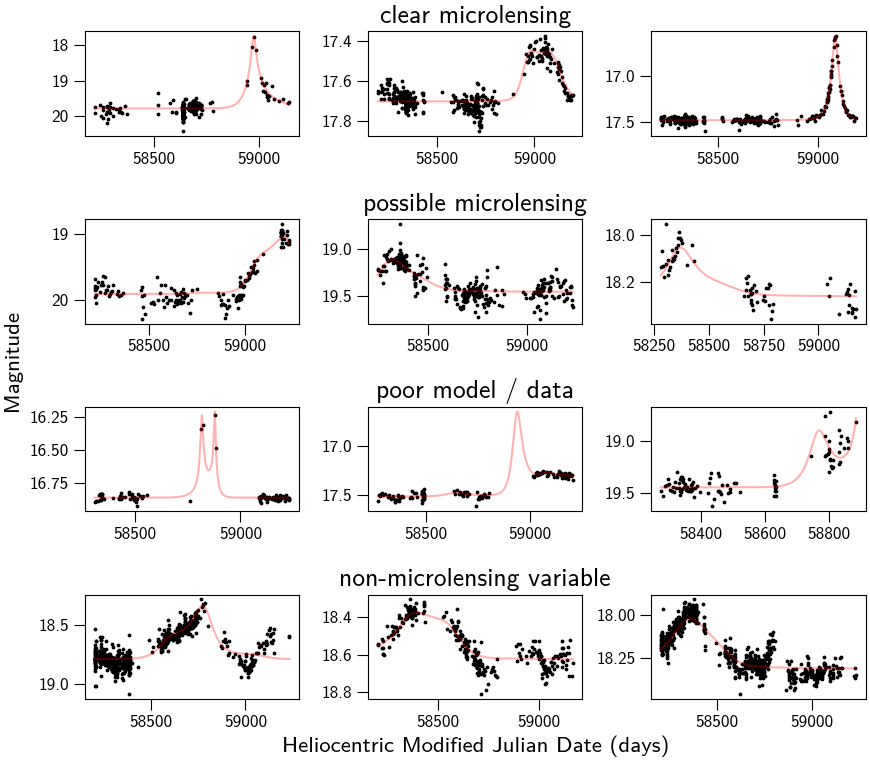
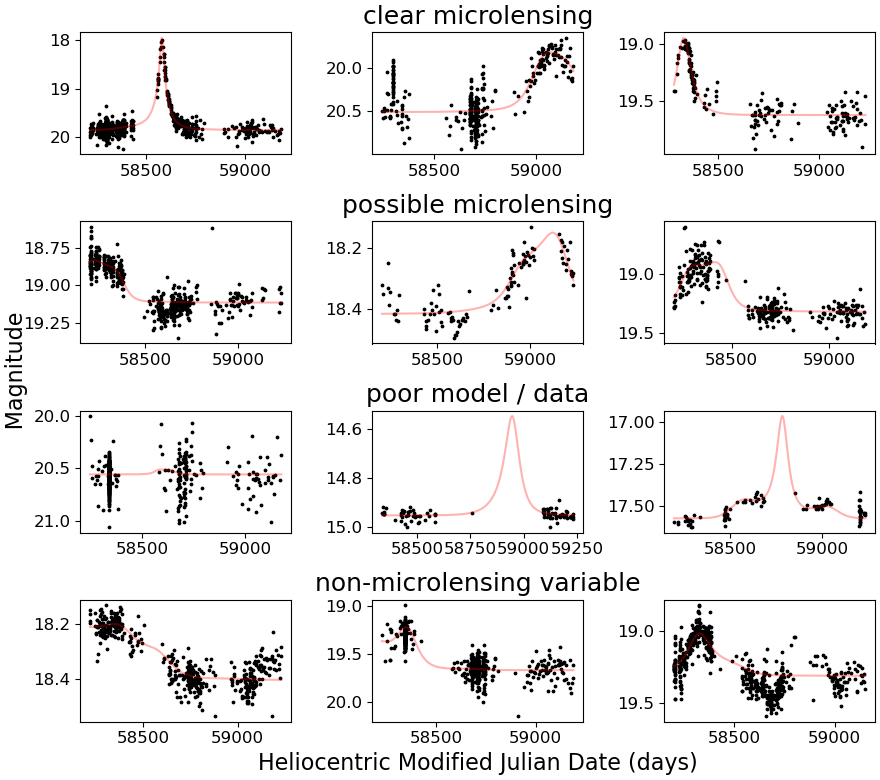
updated zort in dockerfile

Changed region(s): [[0.031, 0.0, 1.0, 0.9961], [0.0, 0.2717, 0.3414, 0.7244], [0.0621, 0.0302, 0.3414, 0.2415]]

diff --git a/bin/paper_figures/plot_level5_cands.py b/bin/paper_figures/plot_level5_cands.py
@@ -398,6 +398,12 @@ def _plot_lightcurve_axis(cand, ax, color_marker='k', color_model='r', remove_ax
 
 
 def plot_level6_lightcurve_examples():
+    """
+    Plots 6 random light curves in the
+    plane and 6 in the halo. They were originally picked randomly
+    then they were hard coded with hard coded time ranges for 
+    optimal display.
+    """
     cands = CandidateLevel4.query.\
         filter(CandidateLevel4.level5 == True,
                CandidateLevel4.category == 'clear_microlensing').\
@@ -409,23 +415,25 @@ def plot_level6_lightcurve_examples():
     cands_halo = [c for c in cands if np.abs(c.glat) > 15]
     print('%i cands within the Galactic plane' % len(cands_halo))
 
-    # idx_plane = np.random.choice(np.arange(len(cands_plane)), replace=False, size=8)
-    # idx_halo = np.random.choice(np.arange(len(cands_halo)), replace=False, size=8)
+    #idx_plane = np.random.choice(np.arange(len(cands_plane)), replace=False, size=8)
+    #idx_halo = np.random.choice(np.arange(len(cands_halo)), replace=False, size=8)
+    #print('idx plane', idx_plane)
+    #print('idx halo', idx_halo)
     idx_xlim_plane = [
-        (77, [58600, 59250], [.03, .97], 'left'),
-        (28, [58250, 58800], [.97, .97], 'right'),
-        (23, [58250, 58500], [.03, .97], 'left'),
-        (53, [58600, 59250], [.03, .97], 'left'),
-        (10, [58250, 58800], [.97, .97], 'right'),
-        (30, [58600, 59250], [.03, .97], 'left')
+        (26, [58200, 59250], [.03, .97], 'left'),
+        (4, [58500, 58850], [.97, .97], 'right'),
+        (14, [58200, 59150], [.97, .97], 'right'),
+        (22, [58200, 59225], [.03, .97], 'left'),
+        (12, [58200, 59150], [.97, .97], 'right'),
+        (16, [58200, 59150], [.97, .97], 'right')
     ]
     idx_xlim_halo = [
-        (5, [58250, 59250], [.03, .97], 'left'),
-        (8, [58250, 59250], [.97, .97], 'right'),
-        (12, [58400, 59250], [.03, .97], 'left'),
-        (9, [58250, 59250], [.97, .97], 'right'),
-        (34, [58250, 59250], [.97, .97], 'right'),
-        (24, [58250, 59250], [.03, .97], 'left'),
+        (12, [58250, 59250], [.97, .97], 'right'),
+        (8, [58250, 59150], [.97, .97], 'right'),
+        (5, [58400, 59150], [.97, .97], 'right'),
+        (0, [58250, 59250], [.03, .97], 'left'),
+        (10, [58250, 59100], [.97, .97], 'right'),
+        (1, [58250, 59250], [.97, .97], 'right'),
     ]
 
     fig, ax = plt.subplots(4, 3, figsize=(12, 8))
@@ -479,13 +487,13 @@ def plot_lightcurve_examples():
         order_by(CandidateLevel4.id).\
         all()
     data = {'clear_microlensing':
-                {'label': 'clear microlensing', 'idx_arr': [13, 63, 45]},
+                {'label': 'clear microlensing', 'idx_arr': [27, 32, 15]},
             'possible_microlensing':
-                {'label': 'possible microlensing', 'idx_arr': [127, 300, 0]},
+                {'label': 'possible microlensing', 'idx_arr': [130,  87, 208]},
             'poor_model_data':
-                {'label': 'poor model / data', 'idx_arr': [85, 41, 89]},
+                {'label': 'poor model / data', 'idx_arr': [85, 89, 34]},
             'non_microlensing_variable':
-                {'label': 'non-microlensing variable', 'idx_arr': [25, 18, 65]}
+                {'label': 'non-microlensing variable', 'idx_arr': [44, 17, 11]}
             }
 
     # 125, 127, 0, 300, 50
@@ -496,6 +504,8 @@ def plot_lightcurve_examples():
         cands_cat = [c for c in cands if c.category == category]
         label = data[category]['label']
         idx_arr = data[category]['idx_arr']
+        #idx_arr = np.random.choice(np.arange(len(cands_cat)), replace=False, size=3)
+        #print('category', idx_arr)
         # if category == 'possible_microlensing':
         #     idx_arr = np.random.choice(np.arange(len(cands_cat)),
         #                                size=3, replace=False)
@@ -998,13 +1008,13 @@ def plot_cands_blend_fraction():
 
 
 def generate_all_figures():
-    plot_cands_on_sky()
-    plot_cands_tE_overlapping_popsycle()
-    plot_cands_tE_piE_overlapping_popsycle()
-    #plot_lightcurve_examples()
+    #plot_cands_on_sky()
+    #plot_cands_tE_overlapping_popsycle()
+    #plot_cands_tE_piE_overlapping_popsycle()
+    plot_lightcurve_examples()
     #plot_level6_lightcurve_examples()
-    plot_cands_magnitude()
-    plot_cands_blend_fraction()
+    #plot_cands_magnitude()
+    #plot_cands_blend_fraction()
 
 
 if __name__ == '__main__':

diff --git a/bin/pipeline/generate_level4_candidates_lightcurve_plots.py b/bin/pipeline/generate_level4_candidates_lightcurve_plots.py
@@ -18,26 +18,33 @@ def return_source_folder(source_id):
     return folder
 
 
-def return_uncompleted_cands():
+def return_cands(uncompleted = True):
+    """
+    Returns the level 4 candidate information
+    If uncompleted = True only returns info for the objects wihtout lightcurves
+    If uncompleted = False returns info for all the objects
+    """
     cands = db.session.query(CandidateLevel4).\
         filter(CandidateLevel4.pspl_gp_fit_finished == True,
                CandidateLevel4.fit_type_pspl_gp != None).\
         order_by(CandidateLevel4.id).\
         all()
-
     cands_data = []
     for cand in cands:
         for source_id in cand.unique_source_id_arr:
             folder = return_source_folder(source_id)
             fname = f'{folder}/{source_id}_lightcurve.png'
-            if not os.path.exists(fname):
+            if uncompleted == True and not os.path.exists(fname):
                 cands_data.append((cand.pspl_gp_fit_dct, cand.unique_source_id_arr))
-
+                continue
+            else:
+                cands_data.append((cand.pspl_gp_fit_dct, cand.unique_source_id_arr))
     return cands_data
 
 
 def generate_level4_candidates_lightcurve_plots():
-    cands_data = return_uncompleted_cands()
+    #By default sets uncompleted = False so it overwrites lightcurves!!
+    cands_data = return_cands(uncompleted=False)
 
     if 'SLURMD_NODENAME' in os.environ:
         from mpi4py import MPI
@@ -50,7 +57,7 @@ def generate_level4_candidates_lightcurve_plots():
         size = 1
 
     my_cands_data = np.array_split(cands_data, size)[rank]
-
+    completed_cands = 0
     for pspl_gp_fit_dct, unique_source_id_arr in my_cands_data:
         for source_id in unique_source_id_arr:
             source = Source.query.filter(Source.id == source_id).first_or_404()
@@ -62,6 +69,9 @@ def generate_level4_candidates_lightcurve_plots():
                 model = None
             folder = return_source_folder(source_id)
             source.load_lightcurve_plot(folder=folder, model_params=model_params, model=model)
+            completed_cands +=1
+            if completed_cands % 1000 == 0:
+                print(completed_cands, '/', len(my_cands_data))
 
 
 if __name__ == '__main__':
